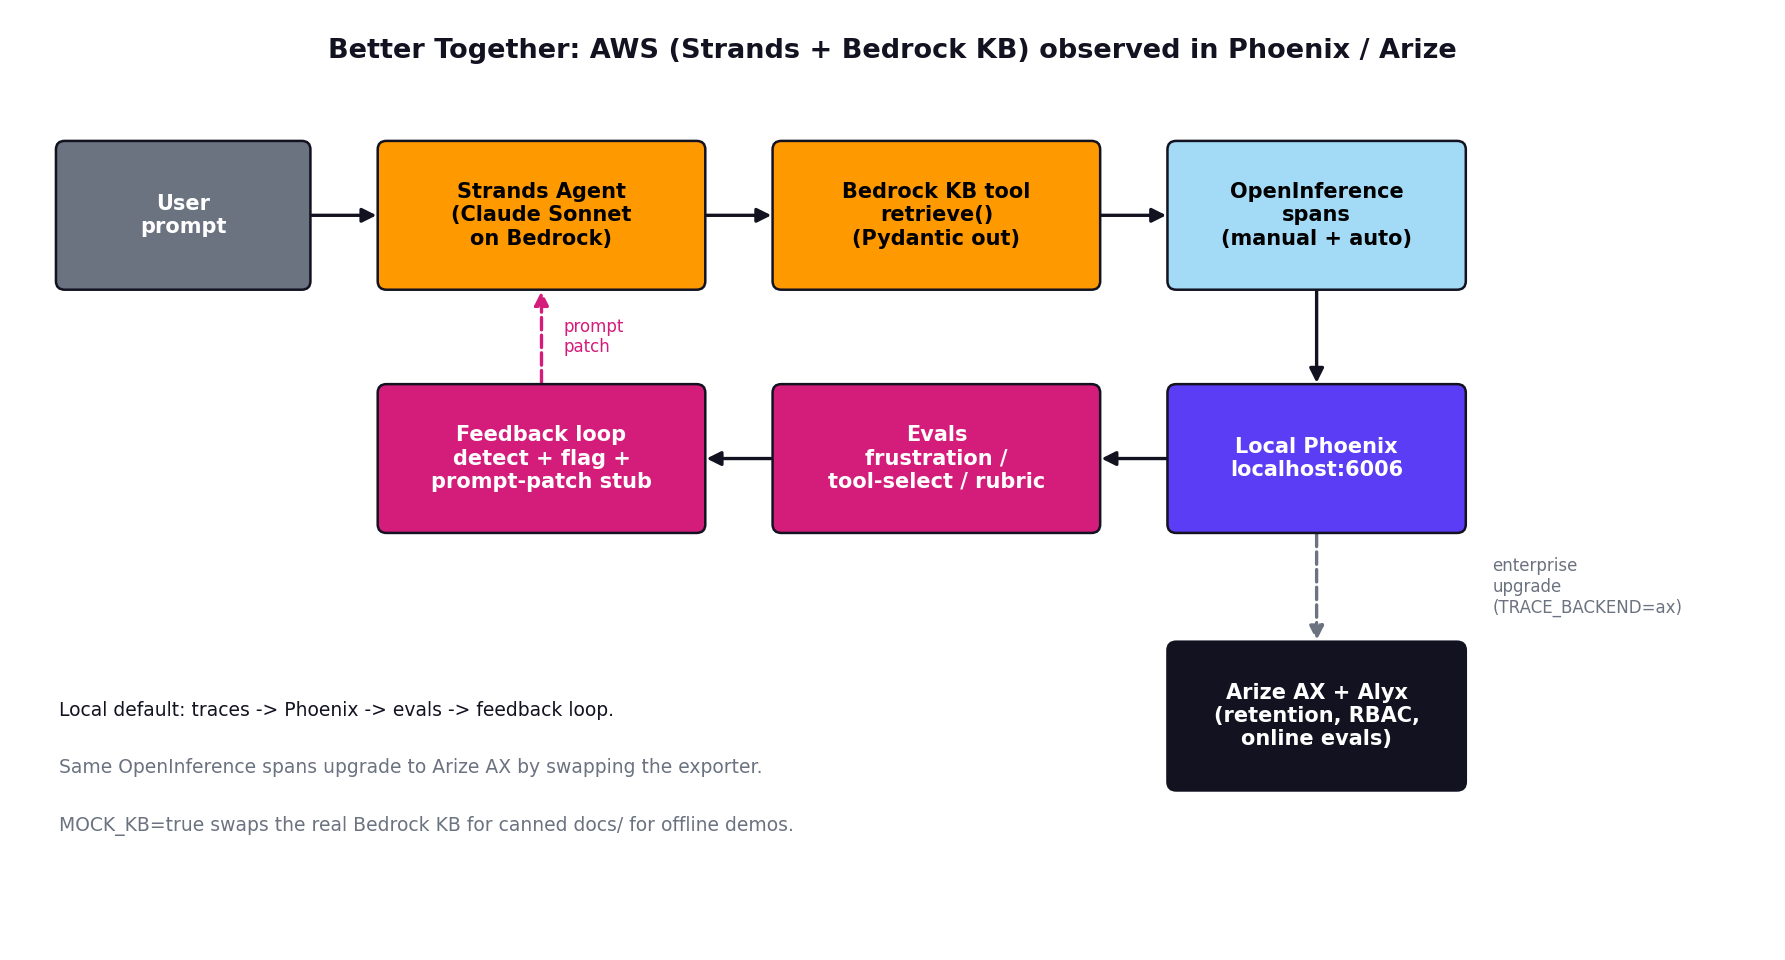
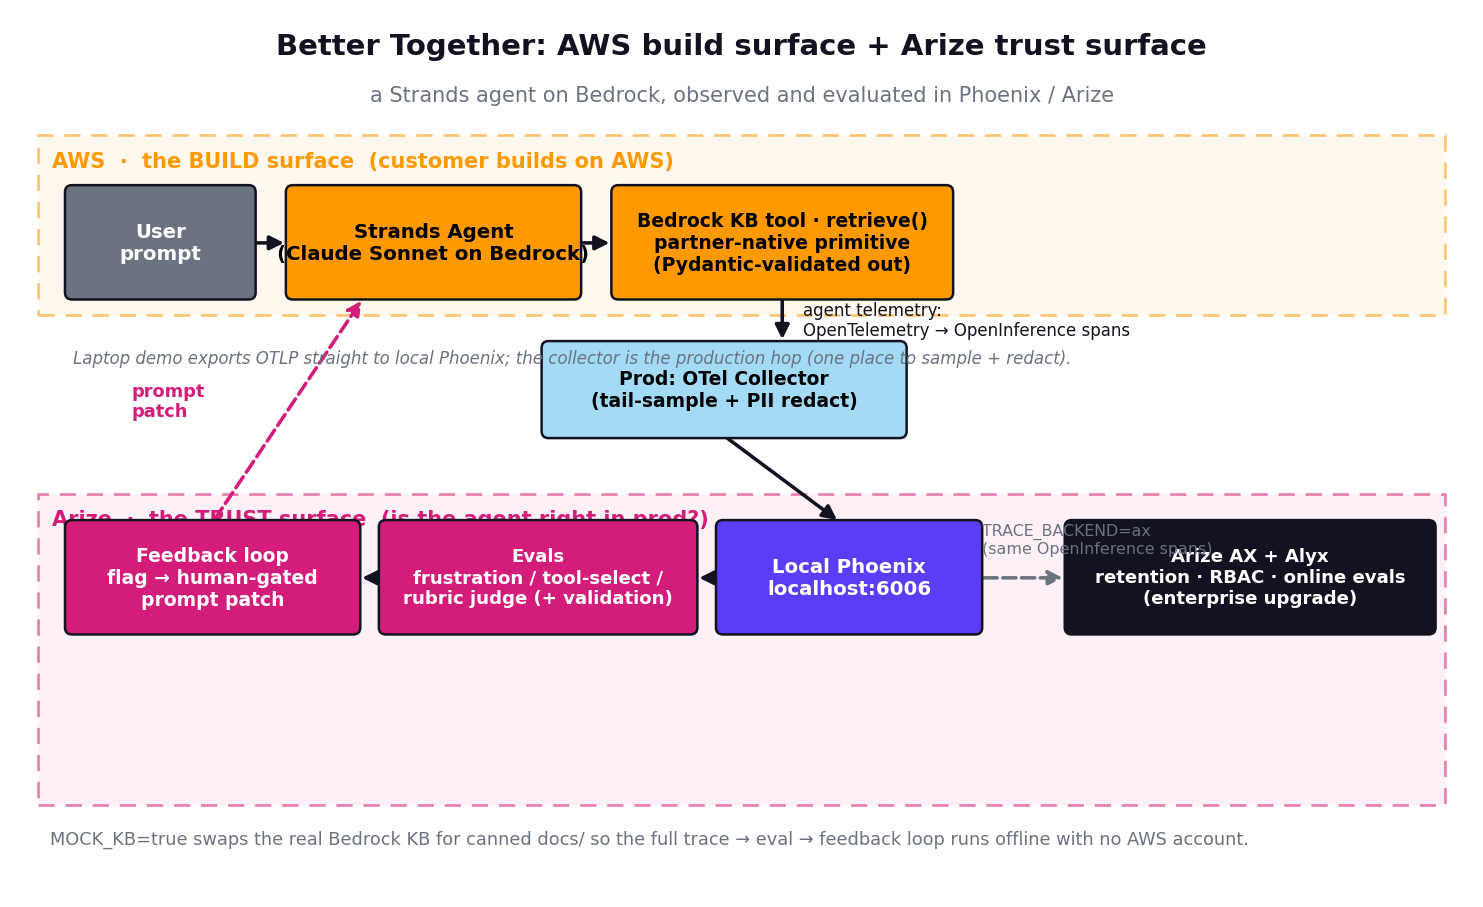
docs: README clarifications; add spans sample and swimlane diagram

diff --git a/docs/architecture.py b/docs/architecture.py
@@ -4,13 +4,16 @@ architecture.py
 
 Render the joint AWS + Arize reference architecture as docs/architecture.png.
 
-Flow shown:
-  user -> Strands/Bedrock agent -> Bedrock KB tool -> OpenInference spans
-       -> local Phoenix -> evals -> feedback loop
-  with Arize AX / Alyx drawn as the enterprise upgrade path.
+The diagram is laid out as two ownership swimlanes so it answers the Partner-SA
+"who owns what" question directly:
 
-Uses matplotlib only (no graphviz dependency) so it renders anywhere matplotlib
-is installed. Run:
+  * TOP  band  = AWS, the BUILD surface (Strands agent on Bedrock + Bedrock KB).
+  * handoff    = the agent's own OpenTelemetry -> OpenInference spans, through a
+                 production OTel Collector (tail-sampling + PII redaction).
+  * BOTTOM band = Arize, the TRUST surface (Phoenix -> evals -> feedback loop),
+                  with Arize AX + Alyx as the enterprise upgrade.
+
+Uses matplotlib only (no graphviz dependency). Run:
 
     python docs/architecture.py            # writes docs/architecture.png
 """
@@ -23,21 +26,31 @@ import matplotlib
 
 matplotlib.use("Agg")  # headless render
 import matplotlib.pyplot as plt
-from matplotlib.patches import FancyBboxPatch, FancyArrowPatch
+from matplotlib.patches import FancyBboxPatch, FancyArrowPatch, Rectangle
 
 
 OUT = Path(__file__).resolve().parent / "architecture.png"
 
-# Arize-ish palette (dark ink, magenta accent, light blue) per brand notes.
+# Palette (Arize-ish: dark ink, magenta accent, light blue; AWS orange).
 INK = "#121221"
 MAGENTA = "#D41C7A"
 BLUE = "#A3DAF5"
 AWS = "#FF9900"
 GREY = "#6B7280"
 PHX = "#5B3DF5"
+AWS_TINT = "#FFF3E0"      # light orange band
+ARIZE_TINT = "#FCE7F1"    # light magenta band
 
 
-def _box(ax, x, y, w, h, label, face, text_color="white", fontsize=10):
+def _band(ax, x, y, w, h, label, edge, fill):
+    ax.add_patch(Rectangle((x, y), w, h, linewidth=1.3, edgecolor=edge,
+                           facecolor=fill, alpha=0.55, zorder=0,
+                           linestyle=(0, (6, 4))))
+    ax.text(x + 0.12, y + h - 0.22, label, ha="left", va="center",
+            color=edge, fontsize=10, weight="bold", zorder=1)
+
+
+def _box(ax, x, y, w, h, label, face, text_color="white", fontsize=9.5):
     ax.add_patch(
         FancyBboxPatch(
             (x, y), w, h,
@@ -49,62 +62,70 @@ def _box(ax, x, y, w, h, label, face, text_color="white", fontsize=10):
             color=text_color, fontsize=fontsize, weight="bold", zorder=3, wrap=True)
 
 
-def _arrow(ax, x1, y1, x2, y2, color=INK, style="-|>", ls="-"):
+def _arrow(ax, x1, y1, x2, y2, color=INK, style="-|>", ls="-", lw=1.7):
     ax.add_patch(
         FancyArrowPatch(
             (x1, y1), (x2, y2), arrowstyle=style, mutation_scale=14,
-            linewidth=1.6, color=color, linestyle=ls, zorder=1,
+            linewidth=lw, color=color, linestyle=ls, zorder=1,
+            connectionstyle="arc3,rad=0.0",
         )
     )
 
 
 def build() -> Path:
-    fig, ax = plt.subplots(figsize=(12, 6.5))
-    ax.set_xlim(0, 12)
-    ax.set_ylim(0, 6.5)
+    fig, ax = plt.subplots(figsize=(12.5, 7.6))
+    ax.set_xlim(0, 12.5)
+    ax.set_ylim(0, 7.6)
     ax.axis("off")
 
-    ax.text(6, 6.2, "Better Together: AWS (Strands + Bedrock KB) observed in Phoenix / Arize",
-            ha="center", fontsize=13, weight="bold", color=INK)
+    ax.text(6.25, 7.25, "Better Together: AWS build surface + Arize trust surface",
+            ha="center", fontsize=14, weight="bold", color=INK)
+    ax.text(6.25, 6.85, "a Strands agent on Bedrock, observed and evaluated in Phoenix / Arize",
+            ha="center", fontsize=10, color=GREY)
 
-    # Row 1: the runtime path.
-    _box(ax, 0.3, 4.6, 1.7, 1.0, "User\nprompt", GREY)
-    _box(ax, 2.5, 4.6, 2.2, 1.0, "Strands Agent\n(Claude Sonnet\non Bedrock)", AWS, "black")
-    _box(ax, 5.2, 4.6, 2.2, 1.0, "Bedrock KB tool\nretrieve()\n(Pydantic out)", AWS, "black")
-    _box(ax, 7.9, 4.6, 2.0, 1.0, "OpenInference\nspans\n(manual + auto)", BLUE, "black")
+    # ---- TOP swimlane: AWS build surface ----
+    _band(ax, 0.2, 5.0, 12.1, 1.55, "AWS  ·  the BUILD surface  (customer builds on AWS)",
+          AWS, AWS_TINT)
+    _box(ax, 0.45, 5.15, 1.6, 0.95, "User\nprompt", GREY)
+    _box(ax, 2.35, 5.15, 2.5, 0.95, "Strands Agent\n(Claude Sonnet on Bedrock)", AWS, "black")
+    _box(ax, 5.15, 5.15, 2.9, 0.95, "Bedrock KB tool · retrieve()\npartner-native primitive\n(Pydantic-validated out)", AWS, "black", 9.0)
+    _arrow(ax, 2.05, 5.62, 2.35, 5.62)
+    _arrow(ax, 4.85, 5.62, 5.15, 5.62)
 
-    _arrow(ax, 2.0, 5.1, 2.5, 5.1)
-    _arrow(ax, 4.7, 5.1, 5.2, 5.1)
-    _arrow(ax, 7.4, 5.1, 7.9, 5.1)          # agent/tool -> spans
-    _arrow(ax, 6.3, 4.6, 6.3, 4.6)          # (placeholder)
+    # ---- Handoff: telemetry through a production collector ----
+    _box(ax, 4.55, 3.95, 3.1, 0.8, "Prod: OTel Collector\n(tail-sample + PII redact)", BLUE, "black", 9.0)
+    _arrow(ax, 6.6, 5.15, 6.6, 4.75, color=INK)
+    ax.text(6.78, 4.95, "agent telemetry:\nOpenTelemetry → OpenInference spans",
+            color=INK, fontsize=8, va="center")
+    ax.text(0.5, 4.62, "Laptop demo exports OTLP straight to local Phoenix; the collector is the "
+                       "production hop (one place to sample + redact).",
+            color=GREY, fontsize=8.0, va="center", style="italic")
 
-    # Row 2: observability + eval path (local default).
-    _box(ax, 7.9, 2.9, 2.0, 1.0, "Local Phoenix\nlocalhost:6006", PHX)
-    _box(ax, 5.2, 2.9, 2.2, 1.0, "Evals\nfrustration /\ntool-select / rubric", MAGENTA)
-    _box(ax, 2.5, 2.9, 2.2, 1.0, "Feedback loop\ndetect + flag +\nprompt-patch stub", MAGENTA)
+    # ---- BOTTOM swimlane: Arize trust surface ----
+    _band(ax, 0.2, 0.75, 12.1, 2.7, "Arize  ·  the TRUST surface  (is the agent right in prod?)",
+          MAGENTA, ARIZE_TINT)
+    # right-to-left flow so the prompt-patch can rise cleanly on the left
+    _box(ax, 6.05, 2.25, 2.25, 0.95, "Local Phoenix\nlocalhost:6006", PHX)
+    _box(ax, 3.15, 2.25, 2.7, 0.95, "Evals\nfrustration / tool-select /\nrubric judge (+ validation)", MAGENTA, "white", 8.7)
+    _box(ax, 0.45, 2.25, 2.5, 0.95, "Feedback loop\nflag → human-gated\nprompt patch", MAGENTA, "white", 9.0)
+    _box(ax, 9.05, 2.25, 3.15, 0.95, "Arize AX + Alyx\nretention · RBAC · online evals\n(enterprise upgrade)", INK, "white", 8.7)
 
-    _arrow(ax, 8.9, 4.6, 8.9, 3.9)          # spans -> phoenix
-    _arrow(ax, 7.9, 3.4, 7.4, 3.4)          # phoenix -> evals
-    _arrow(ax, 5.2, 3.4, 4.7, 3.4)          # evals -> feedback
-    # Feedback loops back to the agent (prompt patch).
-    _arrow(ax, 3.6, 3.9, 3.6, 4.6, color=MAGENTA, ls="--")
-    ax.text(3.75, 4.25, "prompt\npatch", color=MAGENTA, fontsize=8, va="center")
+    _arrow(ax, 6.1, 3.95, 7.1, 3.2)          # collector -> phoenix
+    _arrow(ax, 6.05, 2.72, 5.85, 2.72)       # phoenix -> evals
+    _arrow(ax, 3.15, 2.72, 2.95, 2.72)       # evals -> feedback
+    # prompt patch rises on the left back to the agent
+    _arrow(ax, 1.7, 3.2, 3.0, 5.15, color=MAGENTA, ls="--")
+    ax.text(1.0, 4.25, "prompt\npatch", color=MAGENTA, fontsize=8.5, va="center", weight="bold")
+    # enterprise upgrade: same spans to AX
+    _arrow(ax, 8.3, 2.72, 9.05, 2.72, color=GREY, ls="--")
+    ax.text(8.32, 3.05, "TRACE_BACKEND=ax\n(same OpenInference spans)",
+            color=GREY, fontsize=7.6, va="center")
 
-    # Row 3: enterprise upgrade path.
-    _box(ax, 7.9, 1.1, 2.0, 1.0, "Arize AX + Alyx\n(retention, RBAC,\nonline evals)", INK)
-    _arrow(ax, 8.9, 2.9, 8.9, 2.1, color=GREY, ls="--")
-    ax.text(10.1, 2.5, "enterprise\nupgrade\n(TRACE_BACKEND=ax)",
-            color=GREY, fontsize=8, va="center")
+    # ---- Footnotes ----
+    ax.text(0.3, 0.42, "MOCK_KB=true swaps the real Bedrock KB for canned docs/ so the full "
+                       "trace → eval → feedback loop runs offline with no AWS account.",
+            color=GREY, fontsize=8.5)
 
-    # Legend / notes.
-    ax.text(0.3, 1.6, "Local default: traces -> Phoenix -> evals -> feedback loop.",
-            color=INK, fontsize=9)
-    ax.text(0.3, 1.2, "Same OpenInference spans upgrade to Arize AX by swapping the exporter.",
-            color=GREY, fontsize=9)
-    ax.text(0.3, 0.8, "MOCK_KB=true swaps the real Bedrock KB for canned docs/ for offline demos.",
-            color=GREY, fontsize=9)
-
-    fig.tight_layout()
     fig.savefig(OUT, dpi=150, bbox_inches="tight")
     plt.close(fig)
     return OUT

diff --git a/experiments/spans_sample.md b/experiments/spans_sample.md
@@ -1,0 +1,46 @@
+# Span export sample
+
+A small, human-readable excerpt of the spans exported from local Phoenix by `run_experiments.py` (Step 4). The full export (`spans.parquet` + `.csv`) is gitignored for size; regenerate with `python -m src.run_experiments` against a running `phoenix serve`.
+
+## Span-kind distribution (full export)
+
+| span_kind | count |
+|---|---|
+| CHAIN | 85 |
+| LLM | 82 |
+| AGENT | 48 |
+| RETRIEVER | 45 |
+| UNKNOWN | 45 |
+| TOOL | 36 |
+
+## One representative trace (nested)
+
+**Query:** How does Arize integrate with AWS Bedrock for agentic RAG?
+
+| span | kind | latency (ms) | tokens | tool |
+|---|---|---:|---:|---|
+| agent_turn | UNKNOWN | 6521 |  |  |
+| retrieve_partner_docs | RETRIEVER | 0 |  |  |
+| invoke_agent PartnerSolutionsAssistant | AGENT | 5980 | 11197 |  |
+| execute_event_loop_cycle | CHAIN | 2027 |  |  |
+| chat | LLM | 1473 | 2889 |  |
+| execute_tool search_partner_docs | TOOL | 552 |  | search_partner_docs |
+| execute_event_loop_cycle | CHAIN | 3953 |  |  |
+| chat | LLM | 3951 | 4482 |  |
+
+The `agent_turn` wrapper holds the whole turn in one trace; the manual `retrieve_partner_docs` RETRIEVER span sits beside the agent's LLM/tool spans.
+
+## Custom RETRIEVER span attributes (the Step 3 manual instrumentation)
+
+- `openinference.span.kind` = `RETRIEVER`
+- `kb_id` = `SLVVH8SNKQ`
+- `input.value` = How does Arize integrate with AWS Bedrock for agentic RAG?
+
+| # | retrieval.documents.{i}.document.id | score |
+|---|---|---:|
+| 0 | aws_bedrock_overview.md | 0.806 |
+| 1 | databricks_mosaic_overview.md | 0.492 |
+| 2 | gcp_vertex_overview.md | 0.466 |
+| 3 | nvidia_nemo_overview.md | 0.425 |
+
+_Full span content (document text, per-span token counts, latency_ms) is preserved in the gitignored parquet/csv export._

diff --git a/README.md b/README.md
@@ -115,6 +115,13 @@ Start Phoenix in its own terminal first (Steps 1, 3, 4, 6 export to it):
 phoenix serve            # -> http://localhost:6006
 ```
 
+> **Step 1 choice (partner + sample):** instead of cloning an off-the-shelf
+> sample, this is a *purpose-built* Strands agent on Bedrock — the assessment's
+> allowed extra-credit path — so every piece (the tool, the manual span, the
+> evals, the feedback loop) is one I can explain, modify, and extend on demand.
+> The partner rationale ("AWS owns the build surface, Arize owns the trust
+> surface") is in `DESIGN_MEMO.md` §1.
+
 ### Step 1 + 3: partner agent + Phoenix instrumentation + manual span
 
 ```bash
@@ -157,6 +164,12 @@ per-turn from the tool spans, reported separately from the harness's forced
 retrievals), and failure rate. Live run: p50 ~5.5s, agent tool-selection 7/12,
 2 observable retrieval failures.
 
+The full span export (`experiments/spans.parquet` + `.csv`) is gitignored for
+size; regenerate it with the command above against a running Phoenix. The
+committed evidence is the digested `experiments/metrics_report.txt`,
+`query_records.json`, `feedback_report.md`, and a small human-readable
+`experiments/spans_sample.md` excerpt of the exported spans.
+
 ### Step 5: three evals + LLM judge + validation
 
 ```bash
@@ -174,6 +187,18 @@ over-credited the citation criterion — mitigation: the deterministic
 Frustration, Partner-Native Tool-Selection, and the custom rubric judge
 ("Partner Answer Quality"); `code_evaluator.py` is the 4th, code-based eval.
 
+**Methodology.** Each eval is an LLM judge that returns a label plus a
+one-sentence English rationale (the "English error term" the feedback loop
+consumes). *User Frustration* reads the user message for frustration signals
+(repetition, "again/still", all-caps, "that's not what I asked") and labels
+`frustrated` / `not_frustrated`. *Tool-Selection* is told the query and whether
+the partner-native `search_partner_docs` actually ran, then judges whether that
+was the right call. The *rubric judge* scores against an explicit 4-criterion
+rubric (grounded, on-topic, cited, concise). Trust is established by validating
+the rubric judge against the hand-labeled set and reporting agreement +
+disagreements (above); `feedback_loop.py` then writes each label back onto the
+Phoenix span as an annotation and filters the frustrated turns into a dataset.
+
 ### Step 6: automated feedback loop
 
 ```bash
@@ -188,6 +213,10 @@ onto the Phoenix spans as annotations** (`user_frustration`,
 `frustrated-interactions` Phoenix dataset** (Step 5.1: filter + dataset),
 clusters failure themes, raises flags past threshold, and writes
 `experiments/feedback_report.md` with a human-in-the-loop prompt-patch stub.
+
+The loop uses the `phoenix.client` SDK (the programmatic equivalent of the PX
+CLI) to pull spans, log annotations, and create the dataset; the PX CLI / Phoenix
+skills are an interchangeable surface for the same operations in a dev workflow.
 
 ### Step 7: production-readiness memo
 